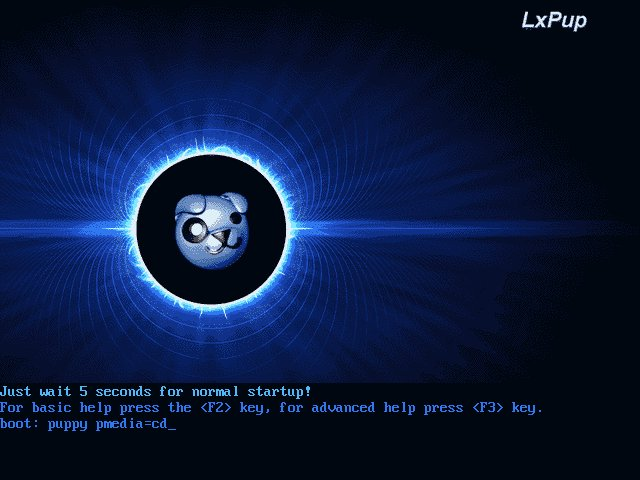
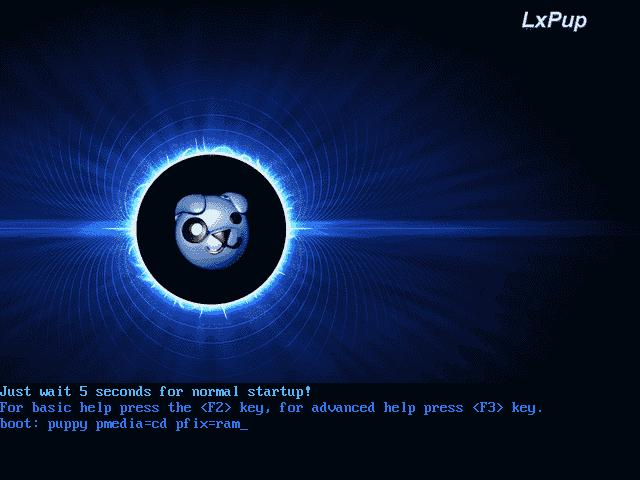
Poprawka instrukcji instalacji LxPup w VirtualBox.

diff --git a/docs/env/live.rst b/docs/env/live.rst
@@ -144,7 +144,7 @@ Następnie uruchamiamy aplikację i tworzymy nową maszynę wirtualną:
 
 * nazwa – np. "LxPup", typ – *Linux*, wersja – *Ubuntu (32-bit)*;
 * rozmiar pamięci – min. 1024MB
-* tworzymy dysk twardy VDI o stałym rozmiarze min. 1024MB
+* tworzymy dysk twardy VDI o stałym rozmiarze min. 2048MB
 
 Po utworzeniu maszyny w sekcji "Storage" jako dysk rozruchowy wskazujemy ściągnięty :term:`obraz iso` dystrybucji,
 np. ``kzkbox_20150921_full.iso``:
@@ -152,7 +152,7 @@ np. ``kzkbox_20150921_full.iso``:
 .. figure:: vboximg/vbox05.jpg
 
 Uruchamiamy maszynę, ale na ekranie roruchowym systemu podajemy dodatkowe
-parametry uruchomieniowe: ``puppy pmedia=cd``:
+parametry uruchomieniowe: ``puppy pmedia=cd pfix=ram``:
 
 .. figure:: vboximg/vbox06.jpg
 
